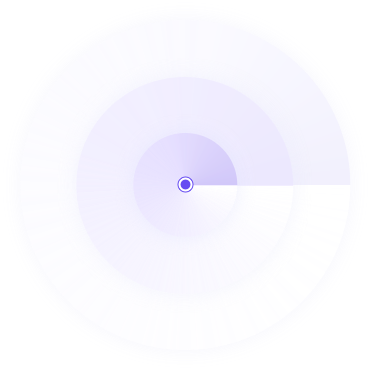
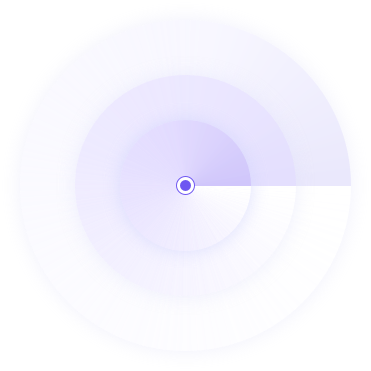
Updated radar image and style

Changed region(s): [[0.5649, 0.3568, 0.6838, 0.5054], [0.4757, 0.4757, 0.5351, 0.5351]]

diff --git a/src/components/SearchingScreen.css b/src/components/SearchingScreen.css
@@ -2,6 +2,8 @@
   position: absolute;
   top: calc(50% - 185px);
   left: calc(50vw - 185px);
+  width: 370px;
+  height: 370px;
   animation-name: spin;
   animation-duration: 1200ms;
   animation-iteration-count: infinite;
